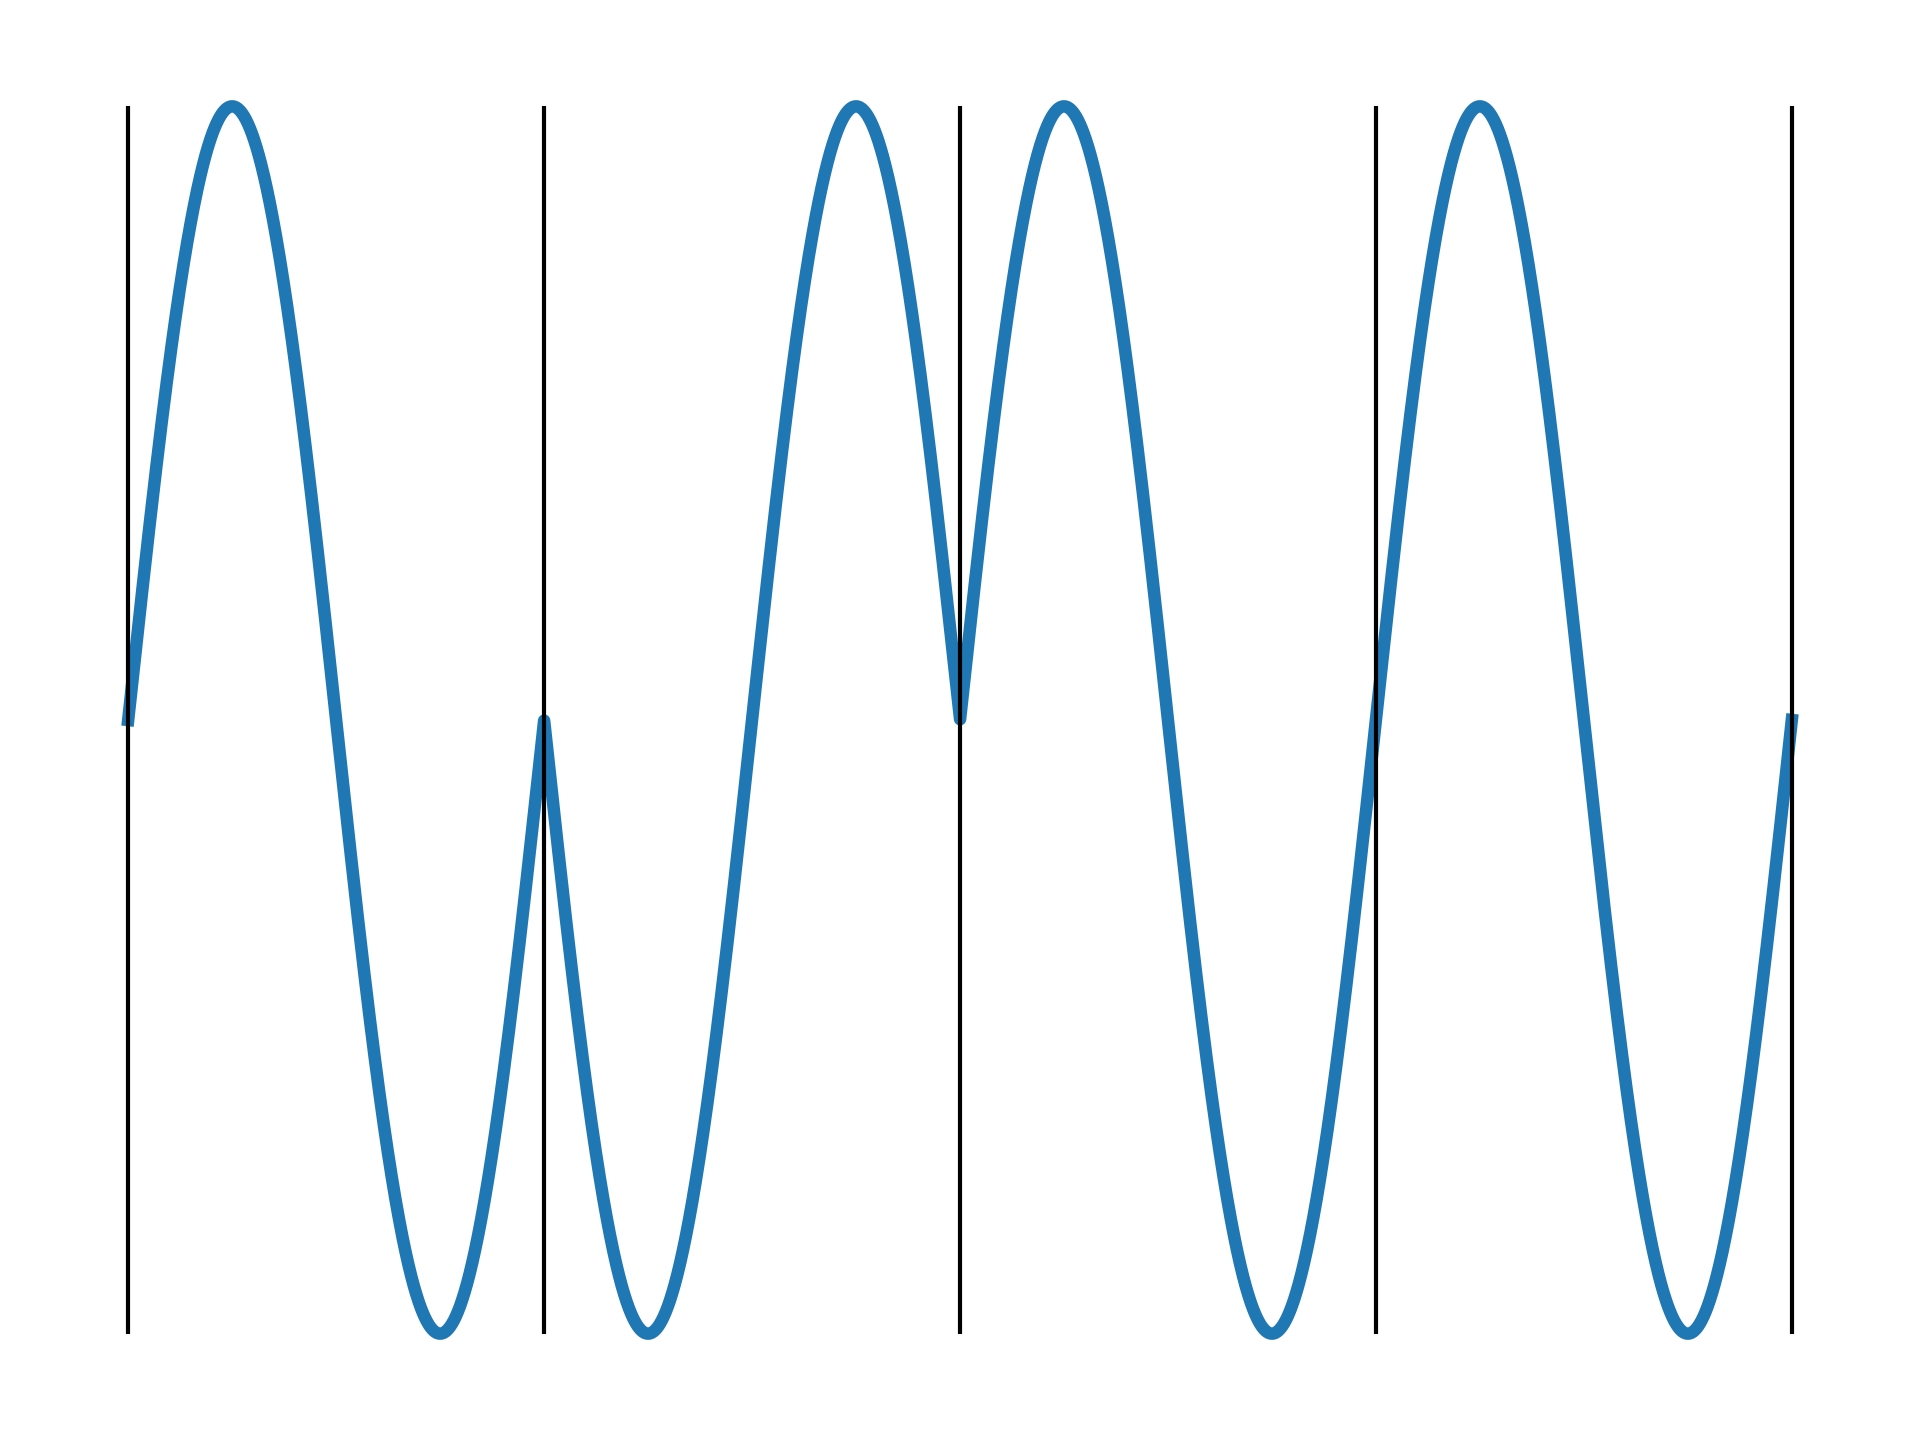
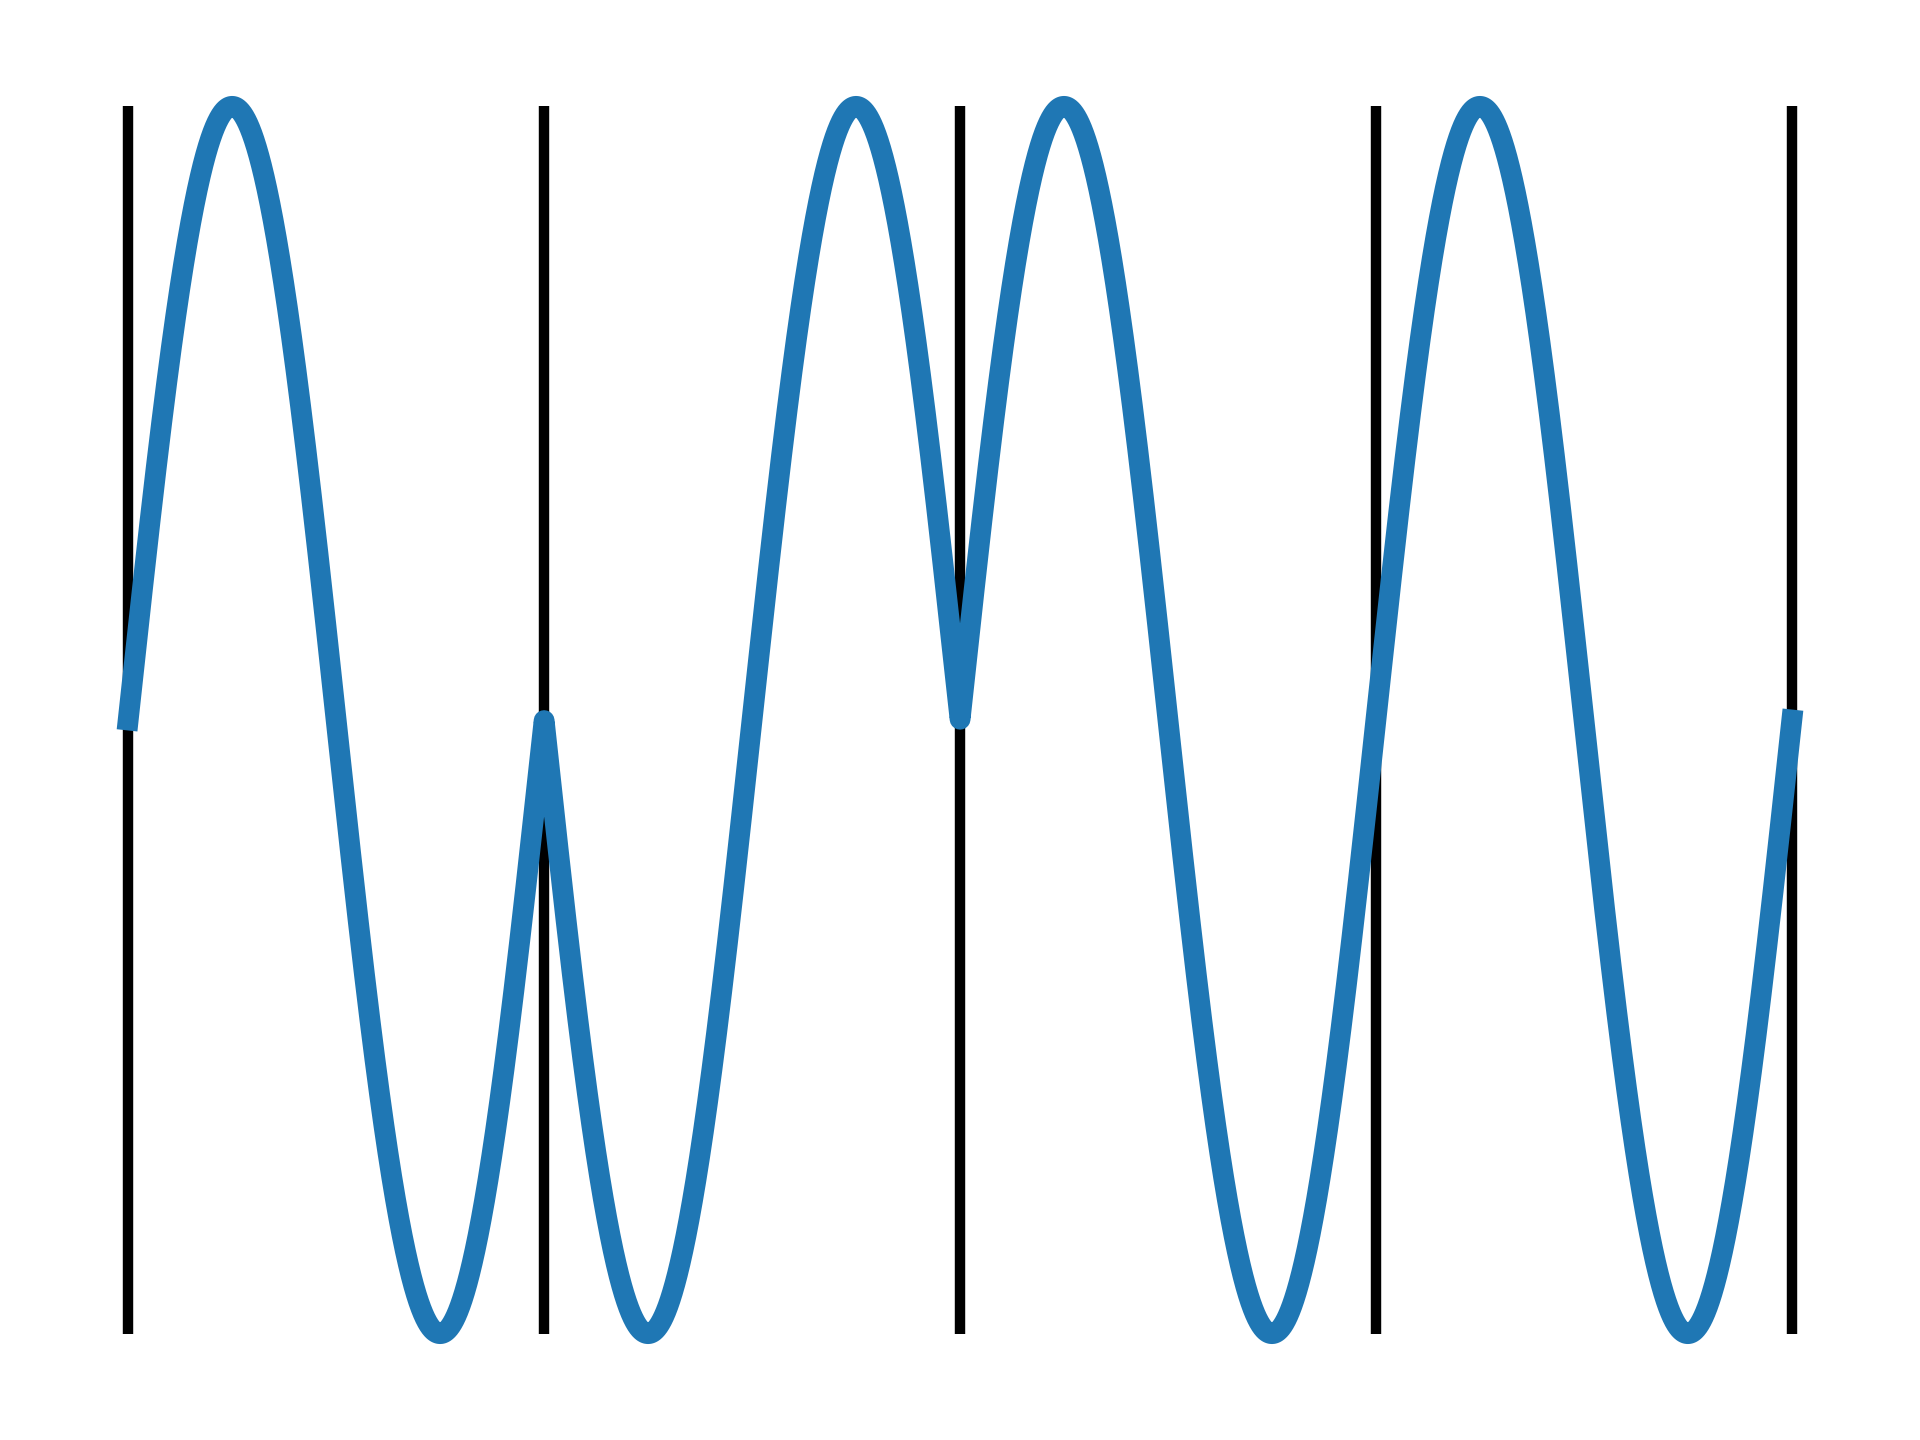
docs: update

diff --git a/docs/final-slide/scripts/mbc-ofdm.py b/docs/final-slide/scripts/mbc-ofdm.py
@@ -24,7 +24,7 @@ x2 = np.sin(2 * t) * np.exp(-t / tau)
 x3 = np.sin(3 * t) * np.exp(-t / tau)
 
 fig, (ax1, ax2, ax3) = plt.subplots(3, 1)
-ax1.plot(t, x1)
+
 ax1.set_xticks([])
 ax1.set_yticks([])
 ax1.hlines(
@@ -32,13 +32,14 @@ ax1.hlines(
     xmin=t[0],
     xmax=t[-1],
     color="black",
-    linewidth=1,
+    linewidth=2.5,
 )
 ax1.spines["right"].set_visible(False)
 ax1.spines["top"].set_visible(False)
 ax1.spines["bottom"].set_visible(False)
 ax1.spines["left"].set_visible(False)
-ax2.plot(t, x2)
+ax1.plot(t, x1, linewidth=5)
+
 ax2.set_xticks([])
 ax2.set_yticks([])
 ax2.hlines(
@@ -46,13 +47,14 @@ ax2.hlines(
     xmin=t[0],
     xmax=t[-1],
     color="black",
-    linewidth=1,
+    linewidth=2.5,
 )
 ax2.spines["right"].set_visible(False)
 ax2.spines["top"].set_visible(False)
 ax2.spines["bottom"].set_visible(False)
 ax2.spines["left"].set_visible(False)
-ax3.plot(t, x3)
+ax2.plot(t, x2, linewidth=5)
+
 ax3.set_xticks([])
 ax3.set_yticks([])
 ax3.hlines(
@@ -60,12 +62,13 @@ ax3.hlines(
     xmin=t[0],
     xmax=t[-1],
     color="black",
-    linewidth=1,
+    linewidth=2.5,
 )
 ax3.spines["right"].set_visible(False)
 ax3.spines["top"].set_visible(False)
 ax3.spines["bottom"].set_visible(False)
 ax3.spines["left"].set_visible(False)
+ax3.plot(t, x3, linewidth=5)
 
 plt.tight_layout()
 

diff --git a/docs/final-slide/scripts/fdm-ofdm.py b/docs/final-slide/scripts/fdm-ofdm.py
@@ -17,7 +17,7 @@ os.chdir(os.path.dirname(os.path.abspath(__file__)))
 os.chdir("..")
 
 xs = 0
-xe = 8 * np.pi
+xe = 7 * np.pi
 x = np.linspace(xs, xe, 1000)
 y_fig1 = np.sin(x)
 for i in range(len(y_fig1)):
@@ -27,9 +27,6 @@ y_fig2_sin = np.abs(np.sin(2 * x))
 y_fig2_cos = np.abs(np.cos(2 * x))
 
 fig, (ax1, ax2) = plt.subplots(2, 1, figsize=(10, 6))
-ax1.plot(x, y_fig1, color="red")
-ax1.set_title("FDM", fontsize=20)
-# ax1.set_xlabel("Frequencty", fontsize=20)
 xticks = []
 for i in range(4):
     xticks.append((0.5 + 2 * i) * np.pi)
@@ -39,18 +36,13 @@ ax1.vlines(
     ymin=0,
     ymax=1,
     color="black",
-    linewidth=2,
+    linewidth=3,
     linestyle=":",
 )
+ax1.plot(x, y_fig1, color="red", linewidth=3)
 ax1.set_yticks([])
 ax1.grid(False)
 
-ax1.legend()
-
-ax2.plot(x, y_fig2_sin, color="red")
-ax2.plot(x, y_fig2_cos, color="blue")
-ax2.set_title("OFDM", fontsize=20)
-ax2.set_xlabel("Frequencty", fontsize=20)
 ax2.grid(False)
 
 xticks = []
@@ -61,13 +53,13 @@ ax2.vlines(
     ymin=0,
     ymax=1,
     color="black",
-    linewidth=2,
+    linewidth=3,
     linestyle=":",
 )
+ax2.plot(x, y_fig2_cos, color="blue", linewidth=3)
+ax2.plot(x, y_fig2_sin, color="red", linewidth=3)
 ax2.set_xticks([])
 ax2.set_yticks([])
-
-ax2.legend()
 
 plt.tight_layout()
 # plt.show()

diff --git a/docs/final-slide/scripts/mbc-bpsk.py b/docs/final-slide/scripts/mbc-bpsk.py
@@ -22,8 +22,6 @@ t = np.linspace(0, 6 * np.pi, N)
 x = np.sin(2 * t) * np.exp(-t / tau)
 plt.figure()
 
-plt.plot(t, x, linewidth=3)
-
 plt.xticks([])
 plt.yticks([])
 
@@ -32,8 +30,10 @@ plt.hlines(
     xmin=t[0],
     xmax=t[-1],
     color="black",
-    linewidth=1,
+    linewidth=2.5,
 )
+
+plt.plot(t, x, linewidth=5)
 
 # 外枠を消す
 plt.gca().spines["right"].set_visible(False)

diff --git a/docs/final-slide/scripts/bpsk.py b/docs/final-slide/scripts/bpsk.py
@@ -24,8 +24,6 @@ for i in range(N // 4, N // 4 + N // 8):
     x[i], x[i + N // 8] = x[i + N // 8], x[i]
 plt.figure()
 
-plt.plot(t, x, linewidth=3)
-
 plt.xticks([])
 plt.yticks([])
 
@@ -42,8 +40,10 @@ plt.vlines(
     ymin=-1,
     ymax=1,
     color="black",
-    linewidth=1,
+    linewidth=2.5,
 )
+
+plt.plot(t, x, linewidth=5)
 
 plt.tight_layout()
 
